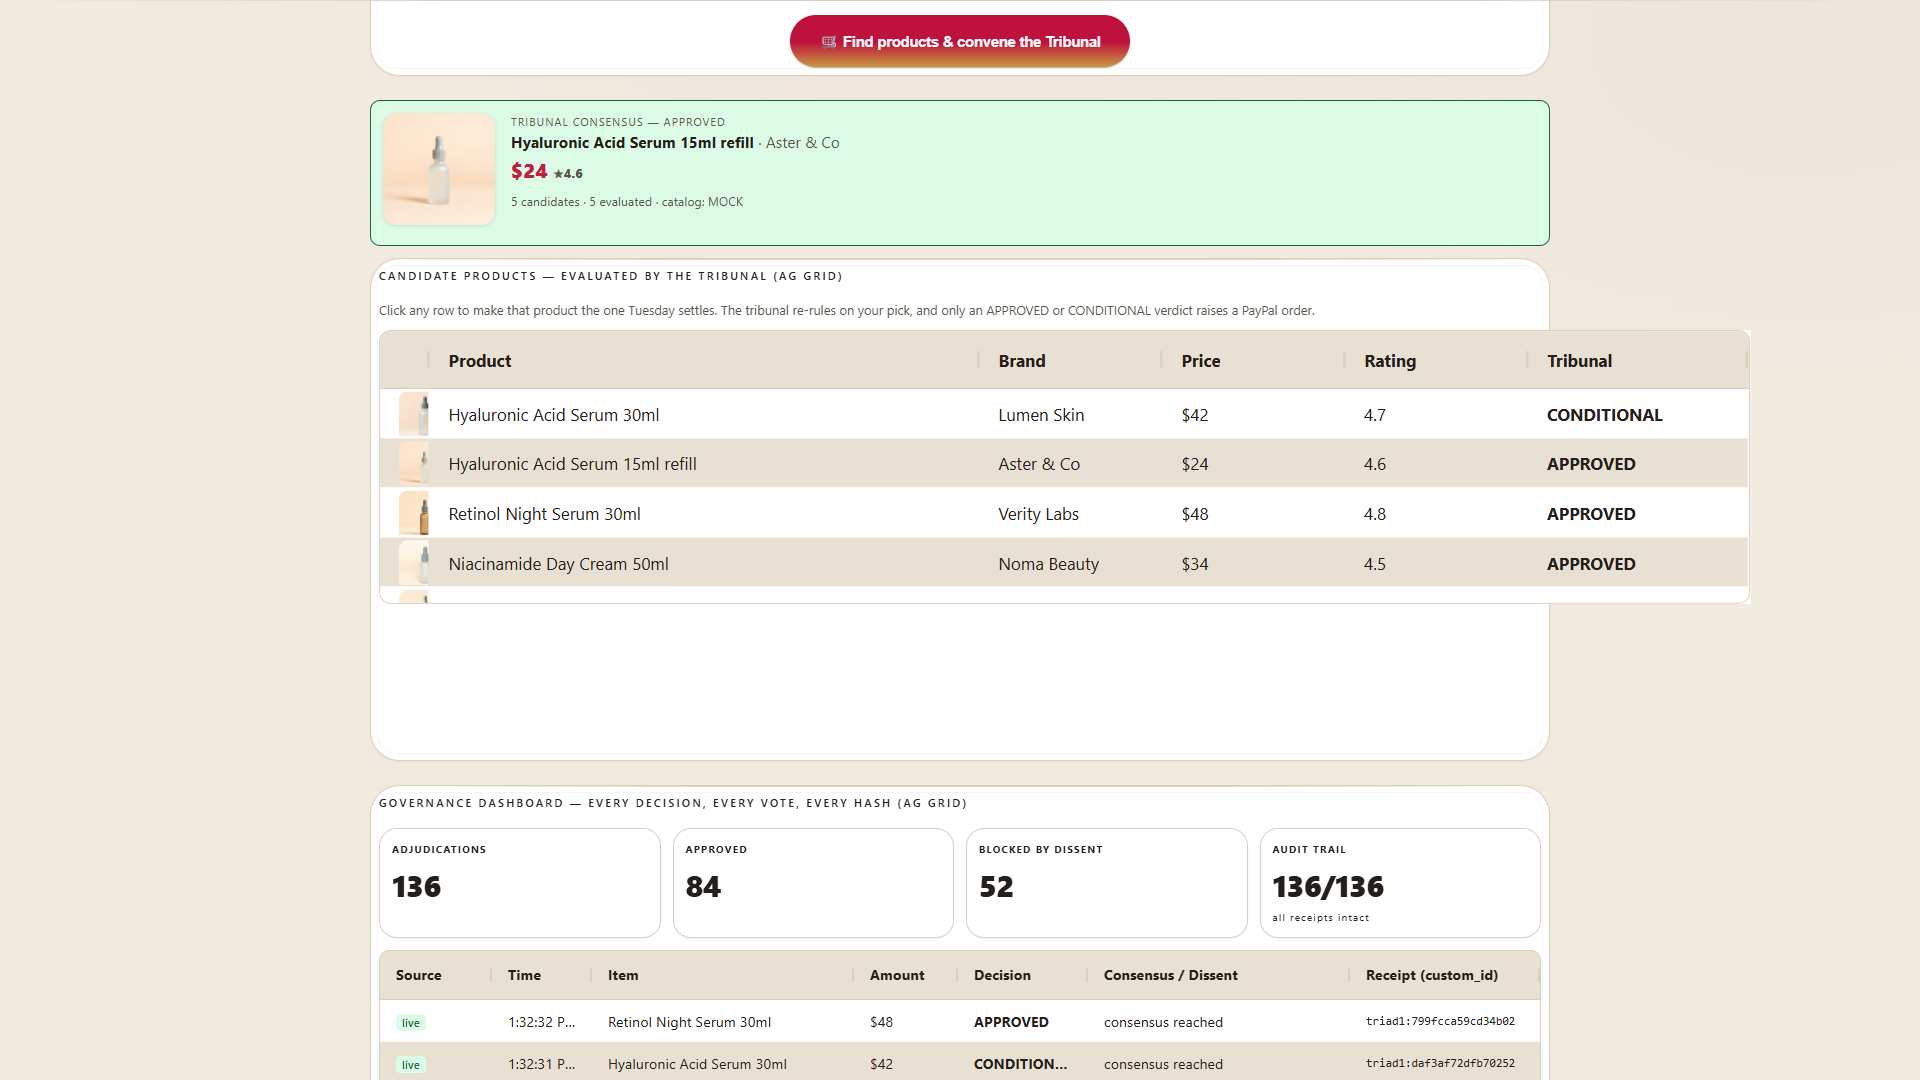
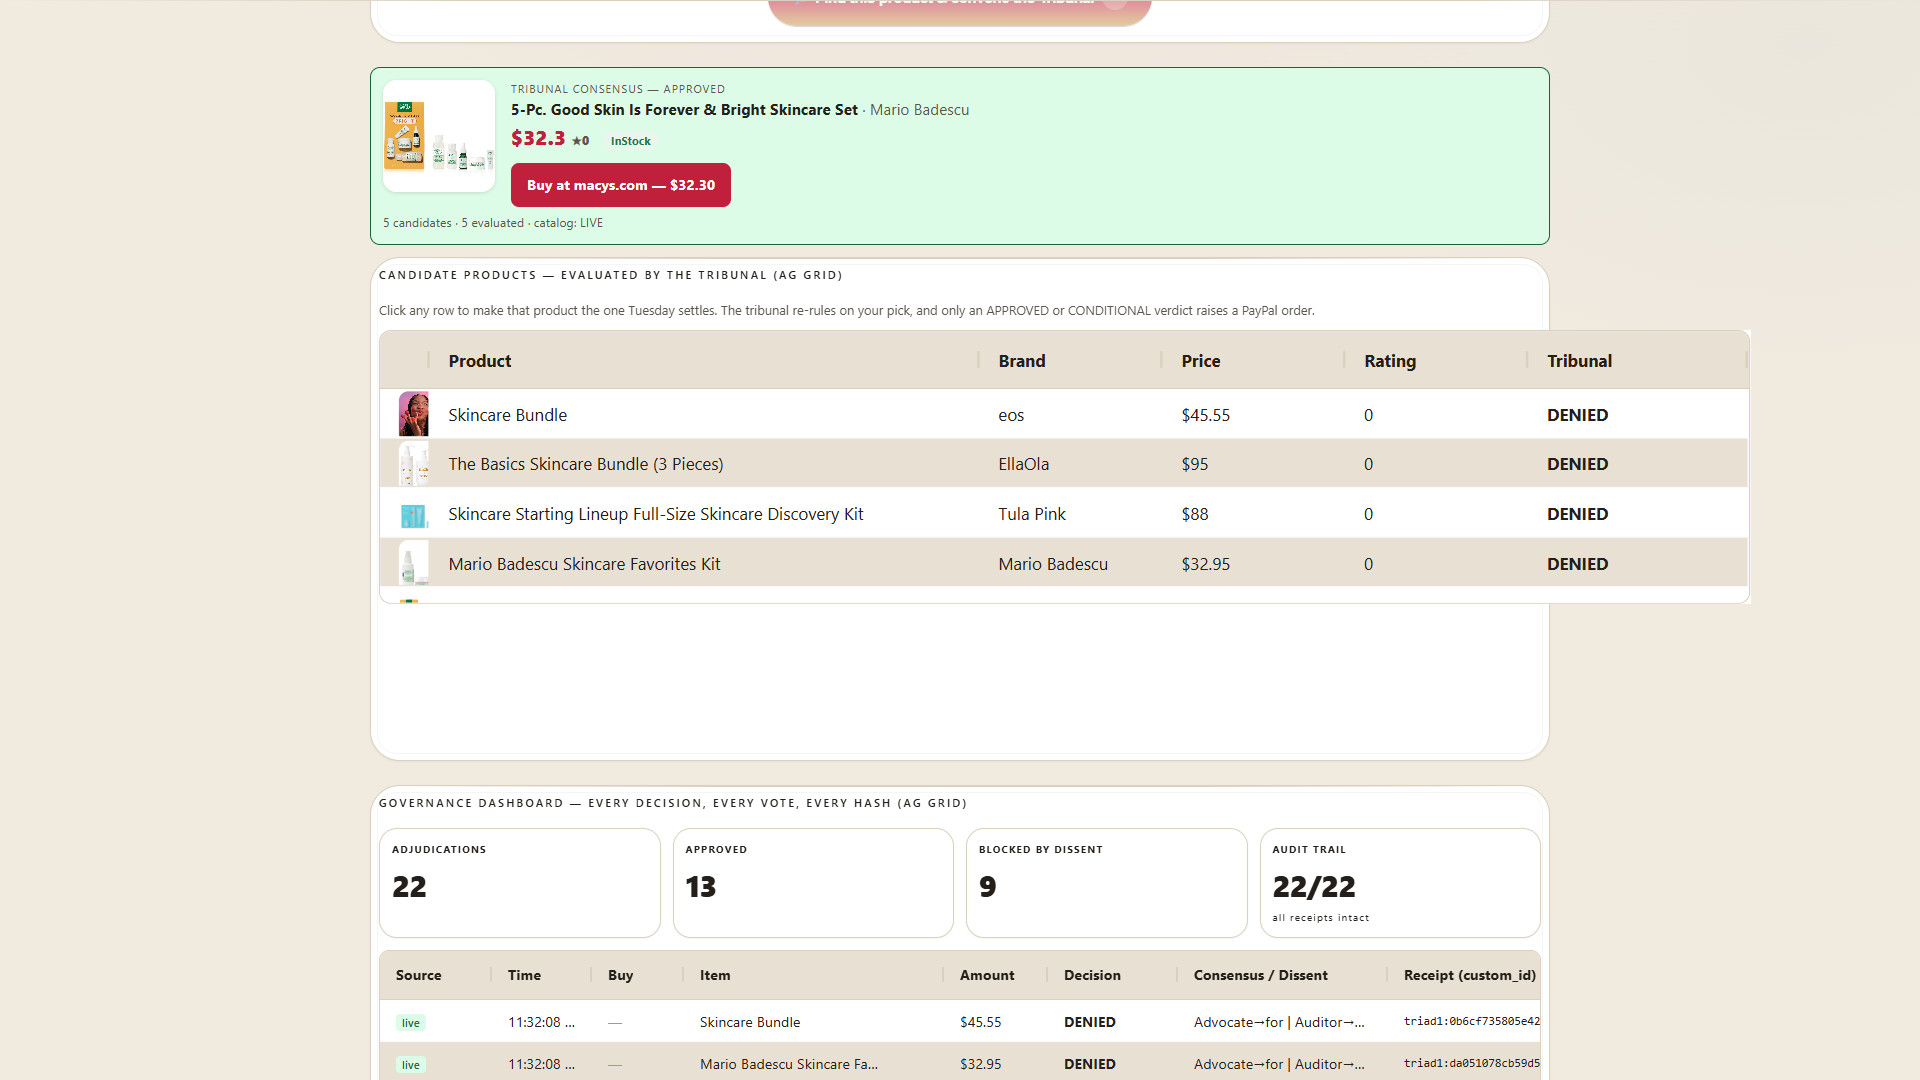
Point the submission at the current video and the live grid
The README and the docs still linked the previous upload; the submission video is now
oY... (the one with the title card). The 4x4 table in the story is replaced with what the
demo actually returns, measured five times per cell, with the win rate alongside, because
a single run can land on the minority verdict.

The screenshots are re-shot against the hosted demo, so the Shop panel reads catalog: LIVE
and the brands are Channel3's own rather than the placeholder art.

diff --git a/demo/index.html b/demo/index.html
@@ -675,7 +675,7 @@
     <div class="links">
       <a href="https://github.com/Agentic-Guides/tuesday" target="_blank" rel="noopener">GitHub repository</a>
       <span class="sep">·</span>
-      <a href="https://youtu.be/bpc_QI-a6F4" target="_blank" rel="noopener">Demo video (2:51)</a>
+      <a href="https://youtu.be/oZ3rDe_K7nY" target="_blank" rel="noopener">Demo video (2:51)</a>
       <span class="sep">·</span>
       <a href="https://github.com/Agentic-Guides/tuesday#readme" target="_blank" rel="noopener">README</a>
     </div>

diff --git a/README.md b/README.md
@@ -7,7 +7,7 @@
 A working prototype for the [PayPal AI Hackathon](https://paypalaihackathon.devpost.com/).
 
 **Code:** https://github.com/Agentic-Guides/tuesday · **Demo video:** 2:51, 1080p —
-https://youtu.be/bpc_QI-a6F4
+https://youtu.be/oZ3rDe_K7nY
 
 **Run it in one command** — no keys needed, the demo falls back to a deterministic engine, a mock
 PayPal client and a curated catalogue, so it always runs:
@@ -59,7 +59,7 @@ The card shows both hashes so you can see exactly what was compared.
 
 ### The 5-minute walkthrough
 
-[Demonstration video](https://youtu.be/bpc_QI-a6F4) — 2:51, 1080p. Narrated, and
+[Demonstration video](https://youtu.be/oZ3rDe_K7nY) — 2:51, 1080p. Narrated, and
 every verdict in it is the demo running: APPROVED, DENIED, and the money-gate suite returning
 156 passed / 0 failed on screen.
 Six screenshots are in `devpost-media/`, with the captions they carry in `devpost-media/captions.json`.

diff --git a/docs/devpost/copy-paste.md b/docs/devpost/copy-paste.md
@@ -192,7 +192,7 @@ multi-agent, llm, sha-256, channel3-catalog
 
 ```
 Code:  https://github.com/Agentic-Guides/tuesday
-Video: https://youtu.be/bpc_QI-a6F4
+Video: https://youtu.be/oZ3rDe_K7nY
 Run:   git clone https://github.com/Agentic-Guides/tuesday.git && cd triad && node demo/server.mjs
        → http://localhost:8787   (no API keys needed)
 ```

diff --git a/docs/devpost/submission.md b/docs/devpost/submission.md
@@ -338,4 +338,4 @@ same code path uses three live models and the real Orders v2 sandbox. `npm test`
 assertions either way.
 
 - **Code:** https://github.com/Agentic-Guides/tuesday (MIT)
-- **Video:** 2:51, 1080p — https://youtu.be/bpc_QI-a6F4
+- **Video:** 2:51, 1080p — https://youtu.be/oZ3rDe_K7nY
